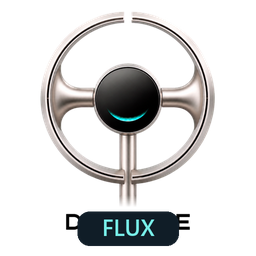
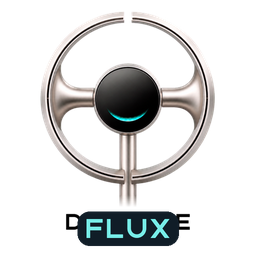
Match MF10 Flux lettering to Dreame wordmark

Changed region(s): [[0.3125, 0.8438, 0.6562, 0.9375]]

diff --git a/tools/render_brand.py b/tools/render_brand.py
@@ -2,7 +2,7 @@
 
 from pathlib import Path
 
-from PIL import Image, ImageDraw, ImageFont, PngImagePlugin
+from PIL import Image, ImageDraw, PngImagePlugin
 
 ROOT = Path(__file__).resolve().parents[1]
 BRAND = ROOT / "custom_components/dreame_mf10_flux/brand"
@@ -14,14 +14,75 @@ METADATA.add_text("Author", "Gabriele Pennacchia")
 METADATA.add_text("Title", "Dreame MF10 Flux")
 
 
-def font(size):
-    """Use an installed sans-serif, with a portable Pillow fallback."""
-    for path in ("C:/Windows/Fonts/seguisb.ttf", "DejaVuSans-Bold.ttf"):
-        try:
-            return ImageFont.truetype(path, size)
-        except OSError:
-            pass
-    return ImageFont.load_default(size=size)
+def glyphs():
+    """Build the needed lettering from the supplied wordmark, without system fonts.
+
+    M is taken directly from the artwork. F and L retain the E's bars and stem;
+    U and zero use the D's curves. The remaining two characters follow the same
+    stroke width. This is matching artwork, not an official Dreame font file.
+    """
+    alpha = WORDMARK.getchannel("A")
+    letter_d = alpha.crop((0, 0, 511, 512))
+    letter_e = alpha.crop((1488, 0, 1924, 512))
+    letter_m = alpha.crop((2834, 0, 3371, 512))
+    stroke = 99
+
+    letter_f = letter_e.copy()
+    ImageDraw.Draw(letter_f).rectangle((stroke, 390, 436, 512), fill=0)
+    letter_l = letter_e.copy()
+    ImageDraw.Draw(letter_l).rectangle((stroke, 0, 436, 405), fill=0)
+
+    letter_u = letter_d.transpose(Image.Transpose.ROTATE_270)
+    ImageDraw.Draw(letter_u).rectangle((stroke, 0, 511 - stroke, stroke), fill=0)
+    curve = letter_d.crop((255, 0, 511, 512))
+    zero = Image.new("L", (512, 512))
+    zero.paste(curve.transpose(Image.Transpose.FLIP_LEFT_RIGHT), (0, 0))
+    zero.paste(curve, (256, 0))
+
+    one = Image.new("L", (232, 512))
+    ImageDraw.Draw(one).polygon(
+        [(0, 141), (128, 0), (232, 0), (232, 511), (128, 511), (128, 151), (69, 216)],
+        fill=255,
+    )
+    letter_x = Image.new("L", (512, 512))
+    draw = ImageDraw.Draw(letter_x)
+    draw.polygon([(0, 0), (128, 0), (512, 511), (384, 511)], fill=255)
+    draw.polygon([(384, 0), (512, 0), (128, 511), (0, 511)], fill=255)
+    return {
+        "M": letter_m,
+        "F": letter_f,
+        "1": one,
+        "0": zero,
+        "L": letter_l,
+        "U": letter_u,
+        "X": letter_x,
+    }
+
+
+GLYPHS = glyphs()
+
+
+def lettering(text, width, foreground, accent):
+    """Render consistent MF10/Flux lettering with fixed, reproducible spacing."""
+    tracking = 114
+    natural_width = sum(GLYPHS[c].width if c != " " else 150 for c in text)
+    natural_width += tracking * (len(text) - 1)
+    result = Image.new("RGBA", (natural_width, 512))
+    x = 0
+    flux = text.startswith("FLUX")
+    for character in text:
+        if character == " ":
+            x += 150 + tracking
+            flux = True
+            continue
+        mask = GLYPHS[character]
+        color = accent if flux else foreground
+        ink = Image.new("RGBA", mask.size, color)
+        ink.putalpha(mask)
+        result.alpha_composite(ink, (x, 0))
+        x += mask.width + tracking
+    height = round(512 * width / natural_width)
+    return result.resize((width, height), Image.Resampling.LANCZOS)
 
 
 def save_pair(image, name):
@@ -38,7 +99,8 @@ for dark in (False, True):
     icon.alpha_composite(FAN.resize((470, 470), Image.Resampling.LANCZOS), (21, 0))
     draw = ImageDraw.Draw(icon)
     draw.rounded_rectangle((155, 423, 357, 491), radius=24, fill="#101d27")
-    draw.text((256, 453), "FLUX", anchor="mm", font=font(46), fill="#77ede8")
+    badge = lettering("FLUX", 166, "#77ede8", "#77ede8")
+    icon.alpha_composite(badge, ((512 - badge.width) // 2, 457 - badge.height // 2))
     save_pair(icon, "dark_icon" if dark else "icon")
 
     logo = Image.new("RGBA", (1280, 360))
@@ -49,9 +111,8 @@ for dark in (False, True):
         mark.putalpha(WORDMARK.getchannel("A"))
     mark.thumbnail((760, 110), Image.Resampling.LANCZOS)
     logo.alpha_composite(mark, (382, 48))
-    draw = ImageDraw.Draw(logo)
-    draw.text((373, 164), "MF10", font=font(113), fill=foreground)
-    draw.text((723, 164), "FLUX", font=font(113), fill=accent)
+    subtitle = lettering("MF10 FLUX", mark.width, foreground, accent)
+    logo.alpha_composite(subtitle, (382, 195))
     save_pair(logo, "dark_logo" if dark else "logo")
     if not dark:
         panel = Image.new("RGBA", logo.size, "white")

diff --git a/custom_components/dreame_mf10_flux/const.py b/custom_components/dreame_mf10_flux/const.py
@@ -4,7 +4,7 @@ from homeassistant.const import Platform
 
 DOMAIN = "dreame_mf10_flux"
 NAME = "Dreame MF10 Flux"
-VERSION = "1.0.0"
+VERSION = "1.0.1"
 PLATFORMS = (
     Platform.FAN,
     Platform.SENSOR,

diff --git a/CONTRIBUTING.md b/CONTRIBUTING.md
@@ -35,7 +35,9 @@ Translations live in `custom_components/dreame_mf10_flux/translations`. Copy
 Language reviewers are welcome; file completeness does not imply native review.
 
 Brand compositions can be regenerated with `python tools/render_brand.py` after
-installing Pillow. Dreame's wordmark remains its owner's trademark; the project
-name and compositions identify this unofficial integration.
+installing Pillow. MF10 FLUX uses custom lettering derived from the supplied
+wordmark's geometry; no system font or official Dreame font file is required.
+Dreame's wordmark remains its owner's trademark; the project name and compositions
+identify this unofficial integration.
 
 Maintained by **Gabriele Pennacchia**.

diff --git a/CHANGELOG.md b/CHANGELOG.md
@@ -1,6 +1,14 @@
 <!-- Copyright 2026 Gabriele Pennacchia -->
 # Changelog
 
+## 1.0.1 — 2026-09-22
+
+- Redraw MF10 FLUX lettering using the supplied Dreame wordmark's shapes and
+  stroke weight, replacing the system font in the logos and icon badge.
+- Regenerate light/dark and standard/high-resolution assets and the README image.
+- Make artwork generation independent of installed system fonts. This is custom
+  matching lettering, not an official Dreame font.
+
 ## 1.0.0 — 2026-09-22
 
 - Native asynchronous Home Assistant integration for the Dreame MF10.
